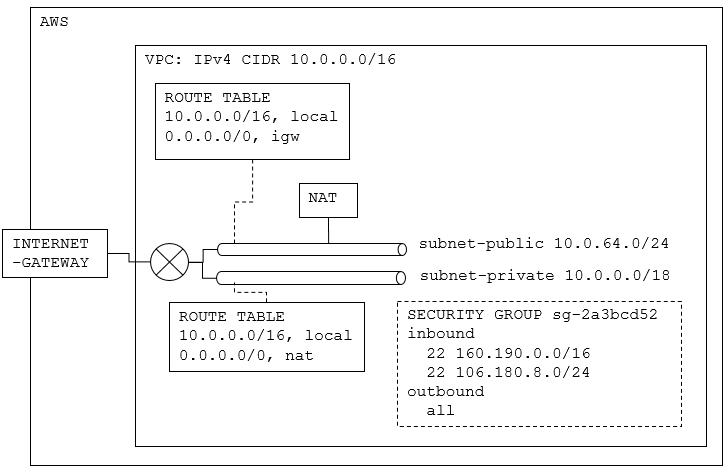
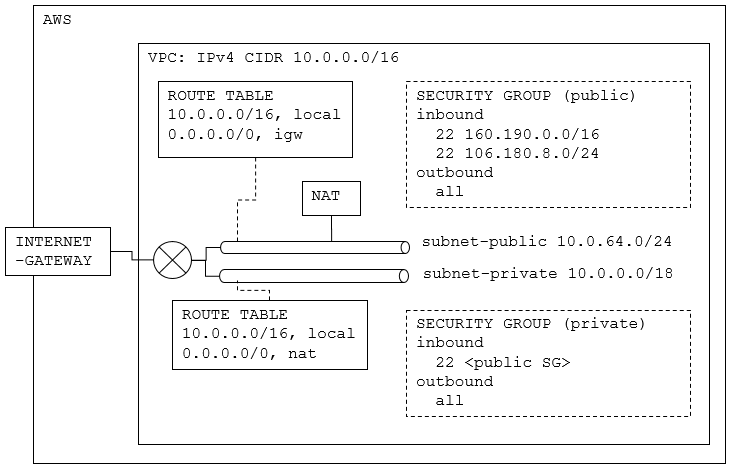
add s3-vpn

diff --git a/README.md b/README.md
@@ -19,10 +19,14 @@ aws s3 cp ./genomon-vpc.yaml s3://<your bucket>
 Create AWS Virtual Private Cloud (VPC).
 
 ```Bash
-aws cloudformation create-stack --stack-name <stack name> --template-url https://s3-<region>.amazonaws.com/<your bucket>/genomon-vpc.yaml
+aws cloudformation create-stack \
+  --stack-name <stack name> \
+  --template-url https://s3-<region>.amazonaws.com/<your bucket>/genomon-vpc.yaml
 
 ## for example,
-aws cloudformation create-stack --stack-name genomon-test --template-url https://s3-ap-southeast-1.amazonaws.com/ecsub-singapore/genomon-vpc.yaml
+aws cloudformation create-stack \
+  --stack-name genomon-test \
+  --template-url https://s3-ap-southeast-1.amazonaws.com/ecsub-singapore/genomon-vpc.yaml
 
 --stack-name (string)
    The  name that is associated with the stack. The name must be unique
@@ -48,23 +52,30 @@ Wait...
 ```Bash
 aws cloudformation describe-stacks --stack-name <stack name> | grep StackStatus
 
-            "StackStatus": "CREATE_IN_PROGRESS",  ## 途中
-            "StackStatus": "CREATE_COMPLETE",     ## 成功
-            "StackStatus": <other>,               ## 失敗
+    "StackStatus": "CREATE_IN_PROGRESS",  ## 途中
+    "StackStatus": "CREATE_COMPLETE",     ## 成功
+    "StackStatus": <other>,               ## 失敗
 ```
 
-Get subnet-ID.
+Get SecurityGroup and private-subnet-ID.
 
 ```Bash
 aws cloudformation describe-stacks --stack-name <stack name> | jq -r ".Stacks[0].Outputs"
 [
 ...
   {
+    "Description": "Security group for the jobs",
+    "OutputKey": "PrivateSecurityGroup",
+    "OutputValue": "sg-6ca00714"
+  },
+...
+  {
     "Description": "Private subnet in the VPC",
     "OutputKey": "PrivateSubnetId",
-    "OutputValue": "subnet-ghijkl34"
+    "OutputValue": "subnet-fc7d7f9b"
   }
 ]
+
 ```
 
 Delete VPC.
@@ -79,4 +90,9 @@ aws cloudformation delete-stack --stack-name <value>
  - Genomon Cloud (genomon-vpc.yaml)
 
 ![document](./img/genomon-cloud.PNG)
+
+
+ - S3-VPN (s3-vpn.yaml) (under development...)
+
+![document](./img/s3-vpn.PNG)
 
